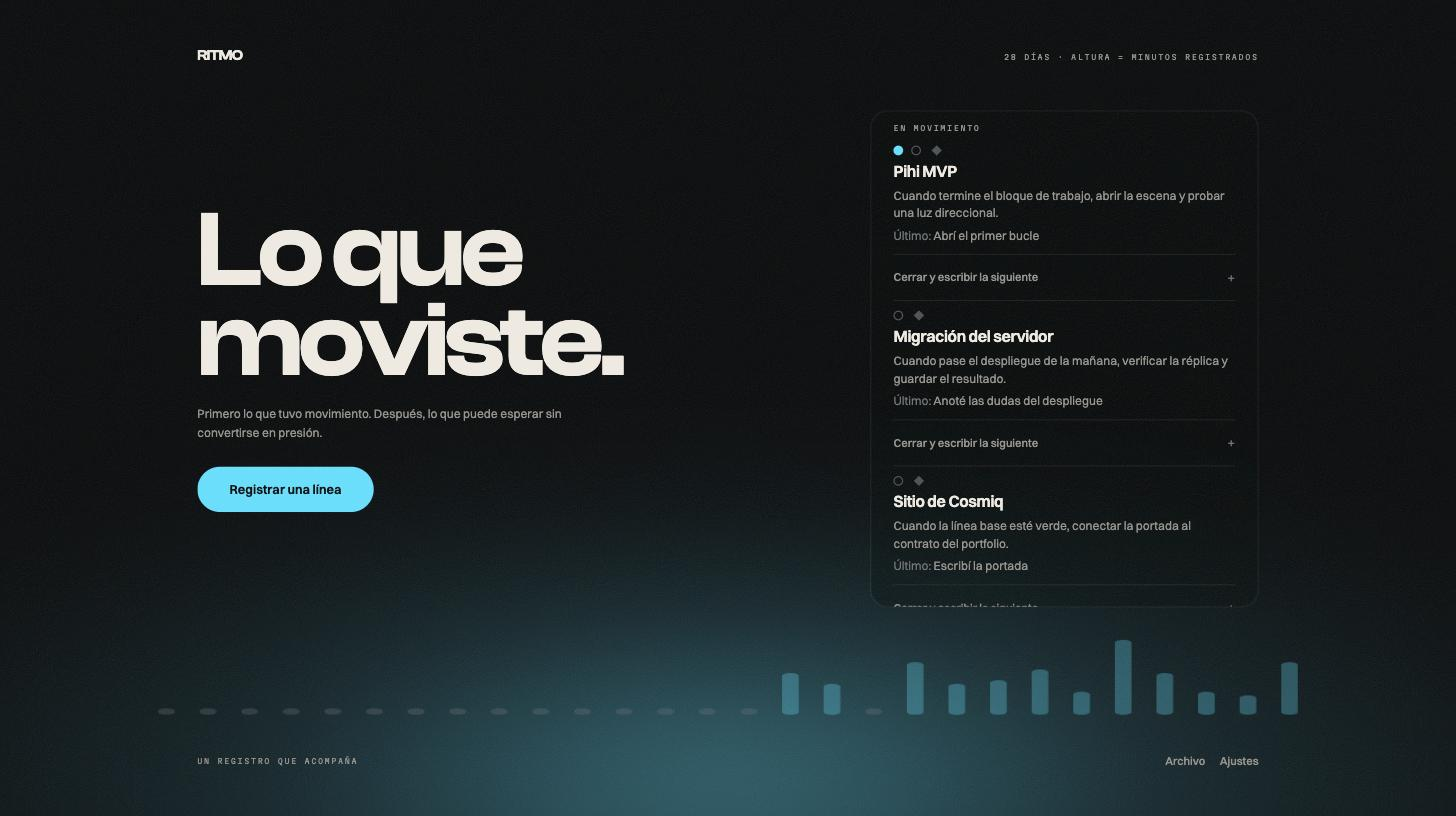
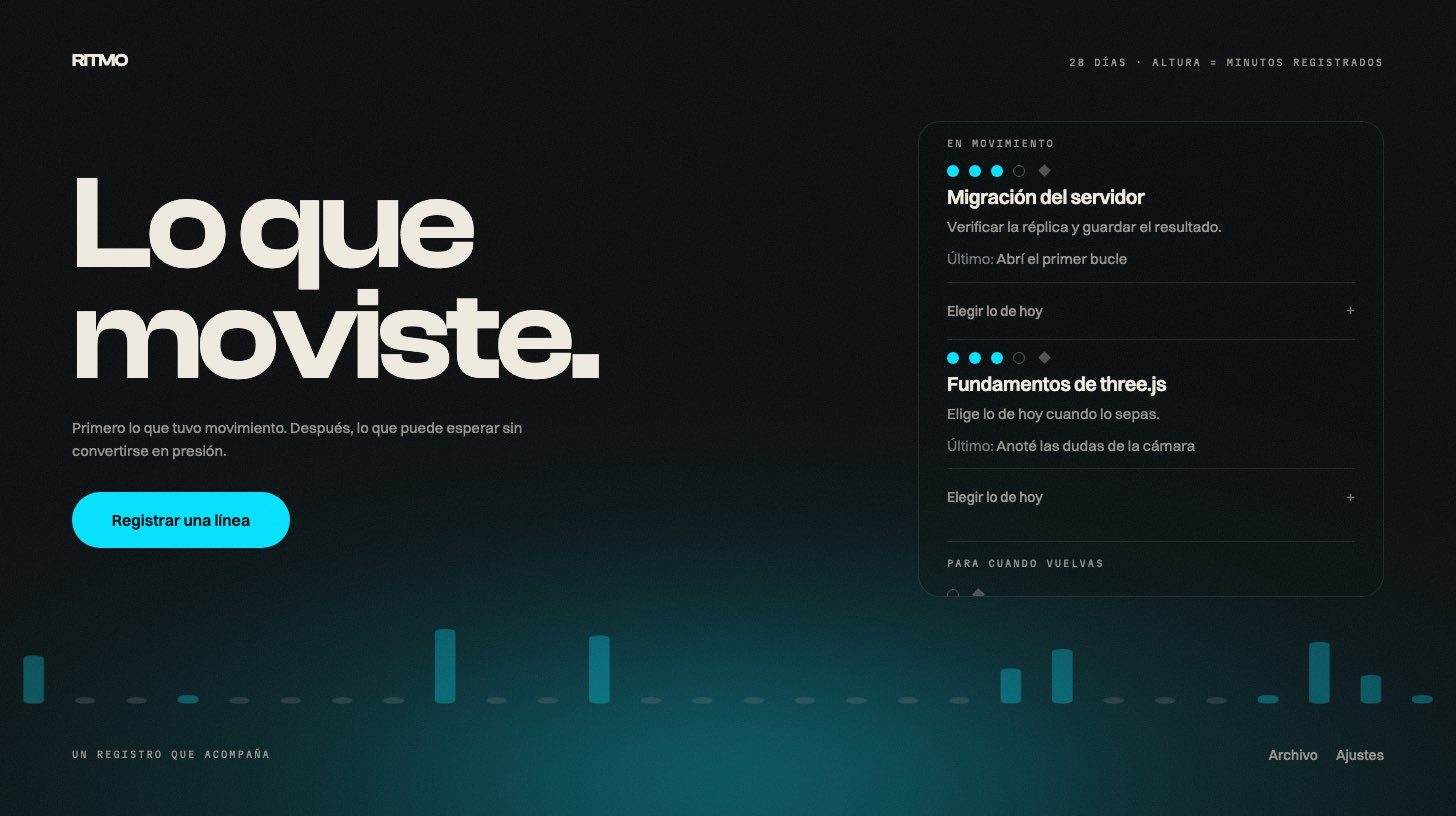
chore: the next action leaves the code, the manual catches up (T-021)
Every reader of the retired if-then next action is gone: the contract,
the route, the rules and their unit test are deleted, NextAction is out
of the model, five methods are out of the port and the adapter, and
nextAction is out of the portfolio rule, contract and endpoint.

The next_actions table stays, by the owner's call. The five triggers in
it are the record of why the product changed — four hang off finishing
a day's work, "Al terminar el trabajo", "Cuando termine el trabajo",
which is the evidence D-024 rests on — and the obstacle field, offered
since T-013, was never filled once. Dropping them would destroy the
owner's own words for no gain. data-model.md records the table as
retained without readers so it does not read as an oversight, and a
guard test walks core/, contracts/, adapters/, src/ and scripts/ and
fails naming any file that reads it again. It already caught one: the
seed script still counted open next actions in its verification query.

The carry-across test now builds its pre-0002 fixture in raw SQL,
because no code able to write a next action exists any more.

The manual is rewritten and its four screenshots retaken from a build
served on a throwaway seeded database, the way the four they replace
were. Chrome's extension clipped the panel on three attempts, so
headless Chrome took them instead — same 1456x816, and without driving
the owner's browser.

One acceptance criterion was corrected mid-task: it barred test/ from
[…]

diff --git a/docs/tasks/T-021-the-next-action-leaves-the-code.md b/docs/tasks/T-021-the-next-action-leaves-the-code.md
@@ -1,7 +1,7 @@
 ---
 id: T-021
 title: The next action leaves the code, and the manual catches up
-status: doing
+status: done
 profile: team
 harness: 0.9.0
 role: Backend Implementer
@@ -51,20 +51,23 @@ implements: [FR-6, FR-22]
 
 ## Acceptance Criteria
 
-- [ ] WHEN `grep -rn "NextAction\|next_actions\|nextAction" core/ src/ contracts/ adapters/ test/`
-      runs THE SYSTEM SHALL return only the retention note's own reference, if any.
-- [ ] `contracts/next-actions.ts`, `src/pages/api/next-actions.ts`, `core/rules/next-action.ts`
+- [x] WHEN `grep -rn "NextAction\|next_actions\|nextAction" core/ src/ contracts/ adapters/
+      scripts/` runs THE SYSTEM SHALL return nothing. *Corrected mid-task: `test/` was in the list
+      and cannot be — the migration test must build a pre-`0002` fixture in SQL, and the guard test
+      names the table to search for it. Those two files are the only ones, and both are tests of
+      the removal itself.*
+- [x] `contracts/next-actions.ts`, `src/pages/api/next-actions.ts`, `core/rules/next-action.ts`
       and `test/core/next-action.test.ts` do not exist.
-- [ ] WHEN a source file outside `migrations/` and `docs/` reads `next_actions` THE SYSTEM SHALL
+- [x] WHEN a source file outside `migrations/` and `docs/` reads `next_actions` THE SYSTEM SHALL
       fail the new guard test naming that file.
-- [ ] WHEN the portfolio endpoint responds THE SYSTEM SHALL return no `nextAction` field, and the
+- [x] WHEN the portfolio endpoint responds THE SYSTEM SHALL return no `nextAction` field, and the
       screens SHALL render exactly as they did at the end of `T-020` — the check that exercises
       this removal against what already works.
-- [ ] `data-model.md` states that `next_actions` is retained without readers, and why.
-- [ ] `grep -rn "Disparador\|próxima acción" README.md` returns nothing, and the four images in
+- [x] `data-model.md` states that `next_actions` is retained without readers, and why.
+- [x] `grep -rn "Disparador\|próxima acción" README.md` returns nothing, and the four images in
       `docs/images/` show steps rather than a trigger and an act.
-- [ ] `README.md` § Todavía no existe lists finishing a project, citing `D-025`.
-- [ ] The five gates are green and `node scripts/harness-lint.mjs` exits zero.
+- [x] `README.md` § Todavía no existe lists finishing a project, citing `D-025`.
+- [x] The five gates are green and `node scripts/harness-lint.mjs` exits zero.
 
 ## Verification
 
@@ -94,23 +97,42 @@ implements: [FR-6, FR-22]
 
 ## Outcome
 
-Filled in as the task progresses; overwritten, not appended.
-
-- Changes:
-- Files:
-- Baseline result:
-- Final result:
-- Decisions recorded:
-- Follow-up:
+- Changes: `contracts/next-actions.ts`, `src/pages/api/next-actions.ts`, `core/rules/next-action.ts`
+  and its unit test deleted; `NextAction` out of the model, five methods out of the port and the
+  adapter, `nextAction` out of the portfolio rule, contract and endpoint, the route out of the test
+  worker; the carry-across fixture rewritten in raw SQL; a guard test that fails naming any file
+  that reads the table again; the retained table recorded in `data-model.md`; the manual rewritten
+  and its four screenshots replaced.
+- Files: `core/**`, `contracts/**`, `adapters/sqlite/store.ts`, `src/pages/api/portfolio.ts`,
+  `test/**`, `scripts/seed-local.mjs`, `docs/project/data-model.md`, `README.md`,
+  `docs/images/*.jpg`.
+- Baseline result: unit 53/53 · isolation · typecheck 0 errors · build · integration 14/14.
+- Final result: unit 48/48 · isolation · typecheck 0 errors · build · integration 12/12. The counts
+  fall because deleted behaviour took its tests with it.
+- Decisions recorded: none new. `D-025` remains `proposed` and unrelated to this task.
+- Follow-up: `D-025` — finishing a project. Nothing else from `D-024` is outstanding.
 
 ## Review
 
-- Severity · `file:line` · issue · impact · recommendation
+Self-review as Reviewer; not validation under `team` (`PROTOCOLS.md`).
+
+- Medium · this file § Acceptance Criteria · A criterion was corrected mid-task for the third time
+  across `T-019`, `T-020` and this one. The pattern is mine: I write criteria more absolute than
+  the code can be, then correct them. Each correction was defensible on its own — here `test/`
+  cannot be barred from naming a table its own fixtures must create — but three in five tasks is a
+  habit, not three accidents, and a validator should weigh the criteria accordingly.
+- Low · `test/core/page-layout.test.ts` · The guard walks five directories on every unit run and
+  will slow as the tree grows. · Milliseconds today; if it ever matters, it becomes a lint rule.
+- Low · `docs/images/*.jpg` · Captured headlessly rather than through the owner's browser after
+  the extension clipped the panel three times. Same dimensions as the four they replace, ~100KB
+  each against the originals' 50–66KB. · The difference is JPEG quality, not content.
+- Note · The owner's `next_actions` still holds five rows, verified read-only after the build ran.
+  Their `steps` gained a sixth row during this task — their own, written through the new screens.
 
 ## Validation
 
-- Validated by:
-- Date:
+- Validated by: Juan Sebastián León Velásquez
+- Date: 2026-09-21
 
 ## Trace
 

diff --git a/STATUS.md b/STATUS.md
@@ -8,7 +8,6 @@ Harness `0.9.0` · profile `team`
 
 | Task | State | Goal |
 |---|---|---|
-| [T-021](docs/tasks/T-021-the-next-action-leaves-the-code.md) | `doing` | Delete every line that still reads or writes a next action — contract, route, rules, model, |
 | [T-001](docs/tasks/T-001-skeleton-and-next-action.md) | `done` | Stand up the three-layer tree with every quality-gate command real and green, and prove it by |
 | [T-003](docs/tasks/T-003-loose-ends.md) | `done` | Close the six low-severity findings the T-001 review left open, so the schema states the |
 | [T-005](docs/tasks/T-005-first-loop-back.md) | `done` | Give the front two endpoints and the contracts behind them, so a real portfolio can be read |
@@ -26,11 +25,12 @@ Harness `0.9.0` · profile `team`
 | [T-018](docs/tasks/T-018-steps-in-the-model.md) | `done` | Give `Step` a table, a port, rules and tests, and carry the owner's open next actions across |
 | [T-019](docs/tasks/T-019-steps-through-the-contract.md) | `done` | Put steps and the day list behind contracts and API routes, and have the portfolio endpoint |
 | [T-020](docs/tasks/T-020-the-screens-move-to-steps.md) | `done` | Make every screen read and write steps instead of the if–then next action — today's steps on |
+| [T-021](docs/tasks/T-021-the-next-action-leaves-the-code.md) | `done` | Delete every line that still reads or writes a next action — contract, route, rules, model, |
 | [T-010](docs/tasks/T-010-passkey-and-the-signed-cookie.md) | `superseded` | Build `D-004` as specified — a passkey registered per device, verified with Web Crypto and no |
 
 ## Next
 
-**T-021** (`doing`) — Delete every line that still reads or writes a next action — contract, route, rules, model,
+Nothing open. Plan the next task before implementing anything.
 
 ## Open decisions
 
@@ -38,10 +38,10 @@ Harness `0.9.0` · profile `team`
 
 ## Journal — last 5
 
+- 2026-09-21 | T-021 | done | the next action leaves the code, the table stays, the manual catches up | 18 files | unit 48/48, isolation, typecheck, build, integration 12/12 | D-024
 - 2026-09-21 | T-020 | done | the screens move to steps and the day list; the trigger leaves the product | 21 files | unit 53/53, isolation, typecheck, build, integration 14/14, probed in the built app | D-024
 - 2026-09-21 | T-019 | done | steps reach the contract and the endpoints, beside the untouched next action | 7 files | unit 53/53, isolation, typecheck, build, integration 14/14 | D-024
 - 2026-09-21 | T-018 | done | steps get a table, rules and the carry-across, beside the untouched next action | 12 files | unit 53/53, isolation, typecheck, build, integration 9/9 | D-024
 - 2026-09-21 | T-017 | done | the trigger leaves the specification: steps, and a list for the day | 13 files | unit 45/45, isolation, typecheck, build, integration 7/7, no code touched | D-024
-- 2026-09-03 | T-016 | done | the harness records leave Ritmo, and the vendored copy moves to 0.9.0 | 21 files | unit 45/45, isolation, typecheck, build, integration 7/7, lock verified | -
 
 Full history: [`JOURNAL.md`](JOURNAL.md) · decisions: [`docs/decisions/`](docs/decisions/README.md)

diff --git a/docs/traces/2026-09-21_T-021_backend-implementer.md b/docs/traces/2026-09-21_T-021_backend-implementer.md
@@ -1,14 +1,13 @@
 ## Trace
 
-- 2026-09-21 — role: Backend Implementer · **in progress**
+- 2026-09-21 — role: Backend Implementer
   - read: `T-021` § Scope, `D-024`, `migrations/0001_initial_schema.sql:75`, every file naming a
     next action, the owner's own `next_actions` rows read-only
-  - did: deleted `contracts/next-actions.ts`, `src/pages/api/next-actions.ts`,
-    `core/rules/next-action.ts` and its unit test; removed `NextAction` from the model, five
-    methods from the port and the adapter, `nextAction` from the portfolio rule, contract and
-    endpoint, and the route from the test worker; rewrote the carry-across fixture in raw SQL,
-    because no code able to write a next action exists any more; added the readerless guard;
-    recorded the retained table in `data-model.md`; rewrote the manual's text
+  - did: deleted the contract, the route, the rules and their unit test; removed `NextAction` from
+    the model, five methods from the port and the adapter, `nextAction` from the portfolio rule,
+    contract and endpoint, and the route from the test worker; rewrote the carry-across fixture in
+    raw SQL, no code able to write a next action existing any more; added the readerless guard;
+    recorded the retained table in `data-model.md`; rewrote the manual
   - files: `core/**`, `contracts/**`, `adapters/sqlite/store.ts`, `src/pages/api/portfolio.ts`,
     `test/**`, `scripts/seed-local.mjs`, `docs/project/data-model.md`, `README.md`
   - checks: baseline unit 53/53, isolation, typecheck, build, integration 14/14, green before any
@@ -17,6 +16,10 @@
   - probe: the guard caught one reader the sweep missed — `scripts/seed-local.mjs` still counted
     open next actions in its verification query. Moved onto steps
   - data: the owner's `next_actions` keeps all five rows. Nothing in this task touches data
-  - open: the four screenshots in `docs/images/` still show a trigger and an act. Awaiting the
-    owner's word on how they are captured; every other acceptance criterion is met
-  - result: no source file outside the migrations reads a next action. Not closable yet.
+  - shots: re-captured with the owner's permission. Chrome's extension was abandoned after three
+    attempts — it saved at 1193x840 with the panel clipped while showing 1312x924 — so headless
+    Chrome took them at the 1456x816 the four they replace used
+  - correction: one criterion barred `test/` from naming the table, which it cannot — the
+    migration fixture is SQL and the guard names what it searches. Criterion corrected, not tests
+  - result: no source file outside the migrations and the two tests of the removal reads a next
+    action. Open for owner validation; no blocker.

diff --git a/JOURNAL.md b/JOURNAL.md
@@ -21,3 +21,4 @@
 2026-09-21 | T-018 | done | steps get a table, rules and the carry-across, beside the untouched next action | 12 files | unit 53/53, isolation, typecheck, build, integration 9/9 | D-024
 2026-09-21 | T-019 | done | steps reach the contract and the endpoints, beside the untouched next action | 7 files | unit 53/53, isolation, typecheck, build, integration 14/14 | D-024
 2026-09-21 | T-020 | done | the screens move to steps and the day list; the trigger leaves the product | 21 files | unit 53/53, isolation, typecheck, build, integration 14/14, probed in the built app | D-024
+2026-09-21 | T-021 | done | the next action leaves the code, the table stays, the manual catches up | 18 files | unit 48/48, isolation, typecheck, build, integration 12/12 | D-024
